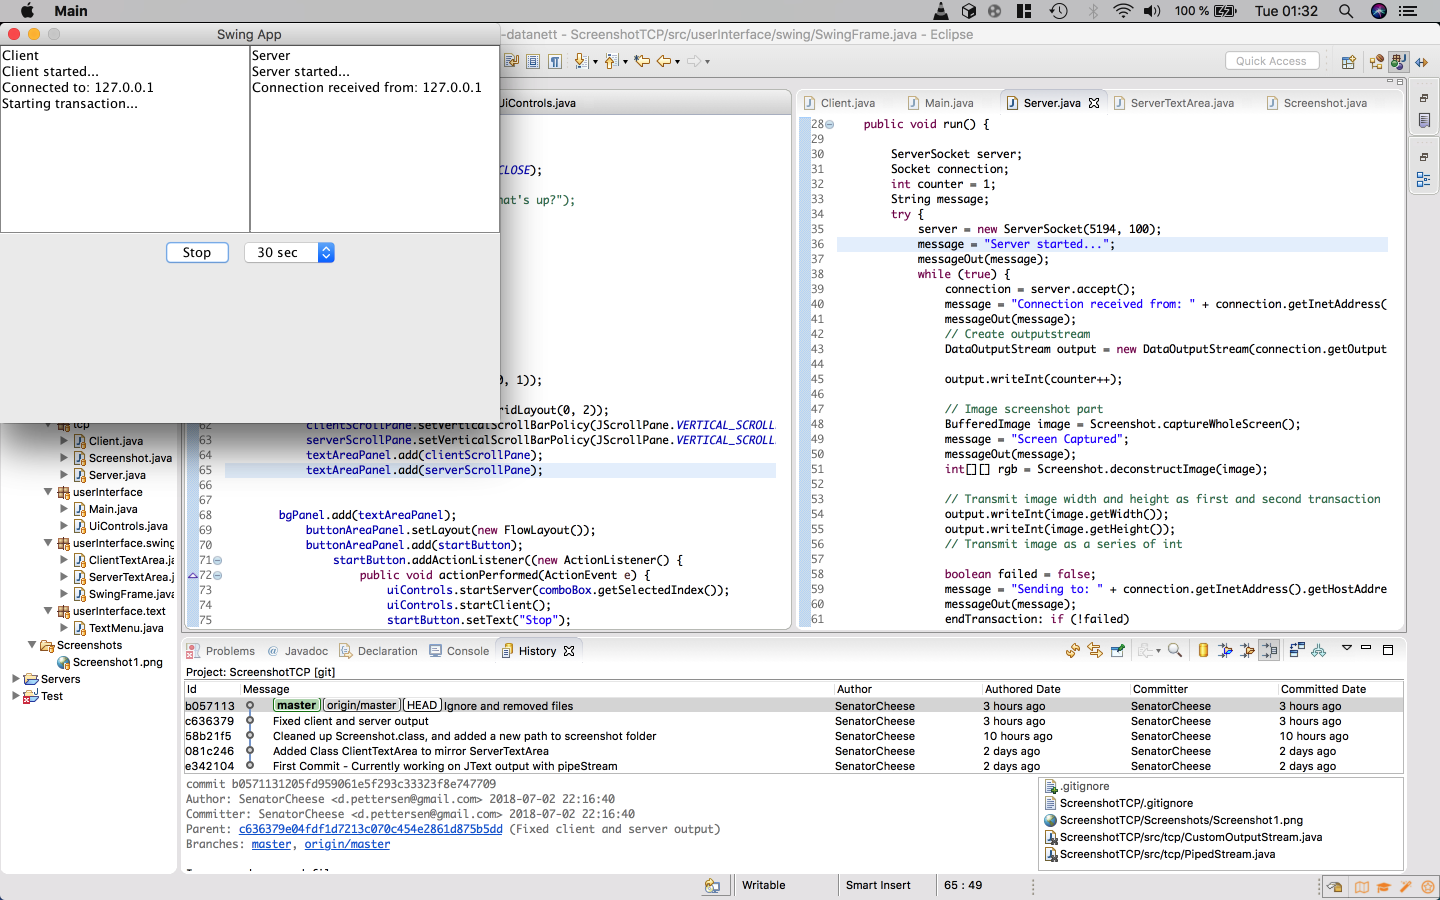
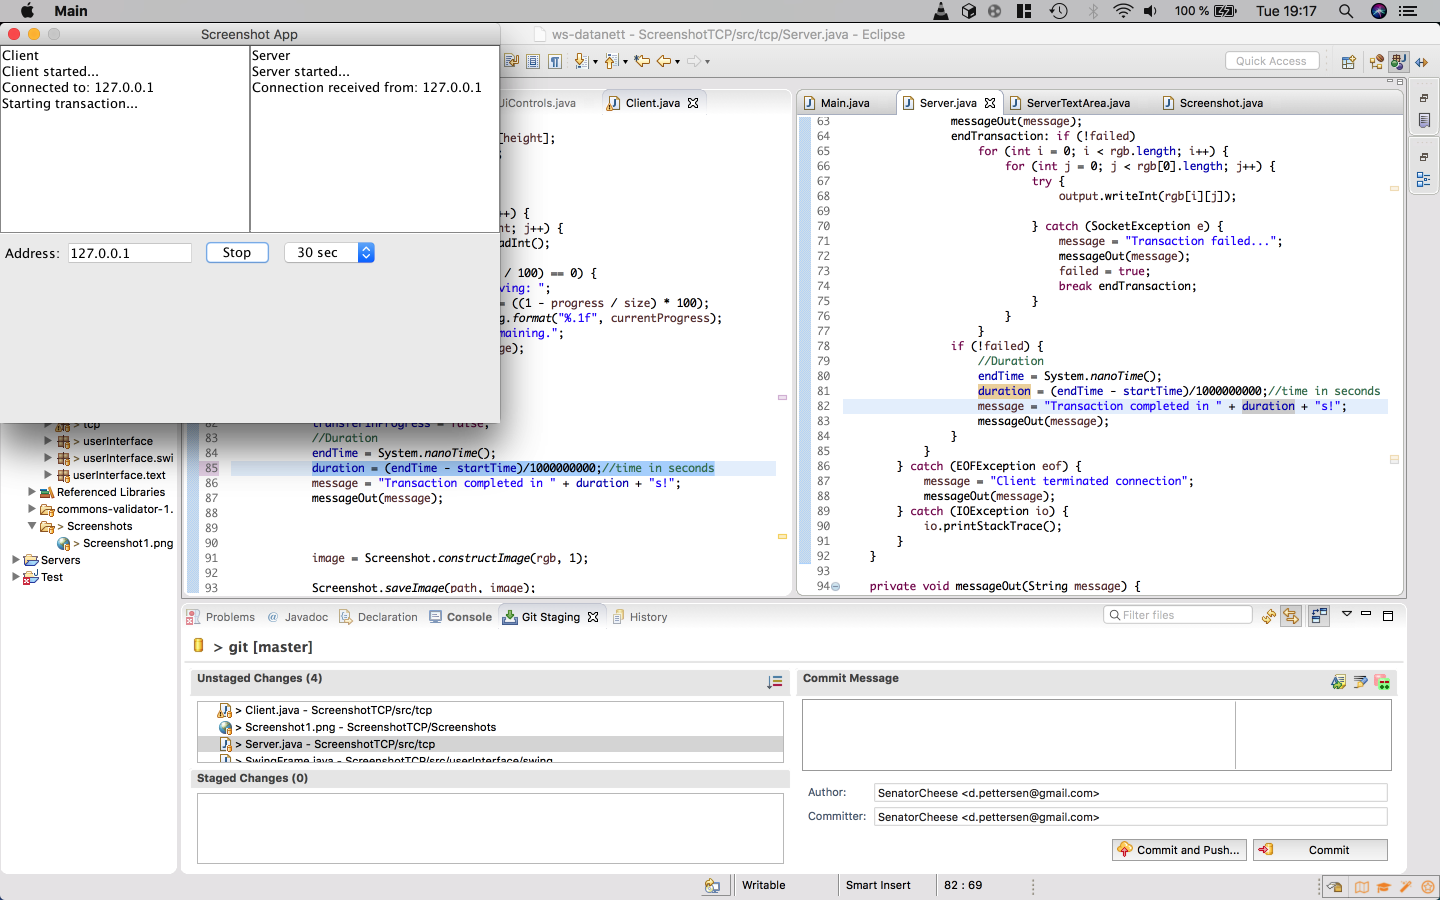
Added transaction timer to server and client

diff --git a/ScreenshotTCP/src/tcp/Client.java b/ScreenshotTCP/src/tcp/Client.java
@@ -14,7 +14,8 @@ public class Client extends Observable implements Runnable {
 	private Thread t;
 	private byte[] address = { 127, 0, 0, 1 };
 	private boolean transferInProgress = false;
-
+	long startTime, endTime, duration;
+	
 	public void start() {
 		if (t == null) {
 			t = new Thread(this);
@@ -41,7 +42,7 @@ public class Client extends Observable implements Runnable {
 			messageOut(message);
 
 			InputStream inputStream = klientSocket.getInputStream();
-
+			
 			DataInputStream input = new DataInputStream(inputStream);
 
 			int counter = input.readInt();
@@ -50,6 +51,10 @@ public class Client extends Observable implements Runnable {
 					+ ".png";
 
 			message = "Starting transaction...";
+			
+			//Duration
+			startTime = System.nanoTime();
+			
 			messageOut(message);
 			// Receive width, heigh and rgb
 			int width = input.readInt();
@@ -74,9 +79,15 @@ public class Client extends Observable implements Runnable {
 					progress++;
 				}
 			}
-			message = "Transaction complete!";
 			transferInProgress = false;
+			//Duration
+			endTime = System.nanoTime();
+			duration = (endTime - startTime)/1000000000;//time in seconds
+			message = "Transaction completed in " + duration + "s!";
 			messageOut(message);
+			
+			
+			
 			image = Screenshot.constructImage(rgb, 1);
 
 			Screenshot.saveImage(path, image);

diff --git a/ScreenshotTCP/src/tcp/Server.java b/ScreenshotTCP/src/tcp/Server.java
@@ -14,6 +14,7 @@ public class Server extends Observable implements Runnable {
 	private Thread t;
 	private int timer;
 	private boolean isRunning;
+	long startTime, endTime, duration;
 
 	public Server() {
 	
@@ -55,7 +56,8 @@ public class Server extends Observable implements Runnable {
 				output.writeInt(image.getWidth());
 				output.writeInt(image.getHeight());
 				// Transmit image as a series of int
-
+				//Duration
+				startTime = System.nanoTime();
 				boolean failed = false;
 				message = "Sending to: " + connection.getInetAddress().getHostAddress();
 				messageOut(message);
@@ -74,7 +76,10 @@ public class Server extends Observable implements Runnable {
 						}
 					}
 				if (!failed) {
-					message = "Transaction complete!";
+					//Duration
+					endTime = System.nanoTime();
+					duration = (endTime - startTime)/1000000000;//time in seconds
+					message = "Transaction completed in " + duration + "s!";
 					messageOut(message);
 				}
 			}

diff --git a/ScreenshotTCP/src/userInterface/swing/SwingFrame.java b/ScreenshotTCP/src/userInterface/swing/SwingFrame.java
@@ -46,8 +46,6 @@ public class SwingFrame extends JFrame {
 		setResizable(false);
 		setDefaultCloseOperation(EXIT_ON_CLOSE);
 
-		// JLabel message = new JLabel("What's up?");
-
 		// Overview of layout
 		// 		Grid(0,1)
 		// 			Grid(0,2)
